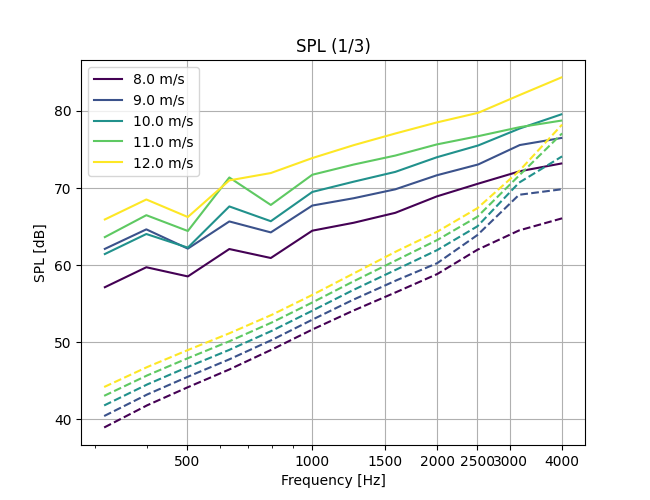
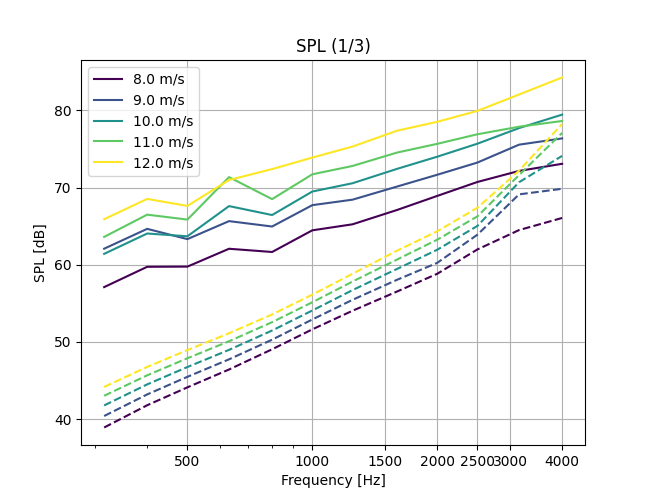
Corrected 1/3rd octave freq bands to line up with BPM model, and estimated SPL error between model and measurements

diff --git a/analysis.py b/analysis.py
@@ -282,10 +282,17 @@ df_wt_spl_1_3_list = []
 df_wt_bg_spl_1_3_list = []
 
 # Evaluate SPL in the frequency domain in 3rd octave bands
-freq_centre = 10 ** (0.1 * np.arange(12, 43))
+# freq_centre = 10 ** (0.1 * np.arange(12, 43))
+freq_centre = np.array([100, 125, 160, 200, 250, 315, 400, 500, 630, 800, 1000, 1250, 1600, 2000, 2500, 3150, 4000, 5000, 6300,
+               8000, 10000, 12500, 16000, 20000, 25000, 31500, 40000])
 freq_d = 10 ** 0.05
 f_upper_1_3 = freq_centre * freq_d
 f_lower_1_3 = freq_centre / freq_d
+
+#f = (/ 100.0_dp, 125.0_dp, 160.0_dp, 200.0_dp, 250.0_dp, 315.0_dp, 400.0_dp, 500.0_dp, &
+#     630.0_dp, 800.0_dp, 1000.0_dp, 1250.0_dp, 1600.0_dp, 2000.0_dp, 2500.0_dp, 3150.0_dp, &
+#     4000.0_dp, 5000.0_dp, 6300.0_dp, 8000.0_dp, 10000.0_dp, 12500.0_dp, 16000.0_dp, &
+#     20000.0_dp, 25000.0_dp, 31500.0_dp, 40000.0_dp /)
 
 print('[*] Calculating SPL_1/3...')
 for df_bg_welch_psd, df_wt_welch_psd, df_wt_bg_welch_psd, v_inf in zip(df_bg_welch_psd_list, df_wt_welch_psd_list, df_wt_bg_welch_psd_list, v_inf_list):
@@ -326,6 +333,15 @@ for df_bg_welch_psd, df_wt_welch_psd, df_wt_bg_welch_psd, v_inf in zip(df_bg_wel
     df_wt_spl_1_3_list.append(df_wt_spl)
     df_wt_bg_spl_1_3_list.append(df_wt_bg_spl)
 
+# Estimate error between BPM model and wind turbine
+df_error_list = []
+for df_wt_spl_1_3, df_bpm, v_inf in zip(df_wt_spl_1_3_list, df_bpm_list, v_inf_list):
+    df_error = pd.DataFrame(columns=['freq', 'error'])
+    df_error = df_error.iloc[0:0]
+    for i in range(len(df_wt_spl_1_3)):
+        df_error = df_error.append({'freq': df_wt_spl_1_3.iloc[i]['freq'], 'error': df_wt_spl_1_3.iloc[i]['spl'] - df_bpm.iloc[i]['spl']}, ignore_index=True)
+    df_error_list.append(df_error)
+
 # Plot results for wind turbine per v_inf
 fig, ax = plt.subplots(figsize=(size_x, size_y))
 for df_wt_spl_1_3, df_bpm, v_inf, color in zip(df_wt_spl_1_3_list, df_bpm_list, v_inf_list, colors):
@@ -341,6 +357,19 @@ plt.xticks(x_ticks, x_ticks)
 plt.savefig('saves/SPL_1_3.png')
 plt.show()
 
+# Plot error between wind turbine and BPM model per v_inf
+fig, ax = plt.subplots(figsize=(size_x, size_y))
+for df_error, v_inf, color in zip(df_error_list, v_inf_list, colors):
+    ax.plot(df_error['freq'], df_error['error'], color=color, label=f'{v_inf} m/s')
+ax.set_xscale('log')
+ax.set_xlabel('Frequency [Hz]')
+ax.set_ylabel('Error [dB]')
+ax.set_title('Error (SPL 1/3)')
+ax.legend()
+ax.grid(True)
+plt.xticks(x_ticks, x_ticks)
+plt.savefig('saves/Error_1_3.png')
+plt.show()
 
 # ---------------------------------- OSPL ----------------------------------
 
